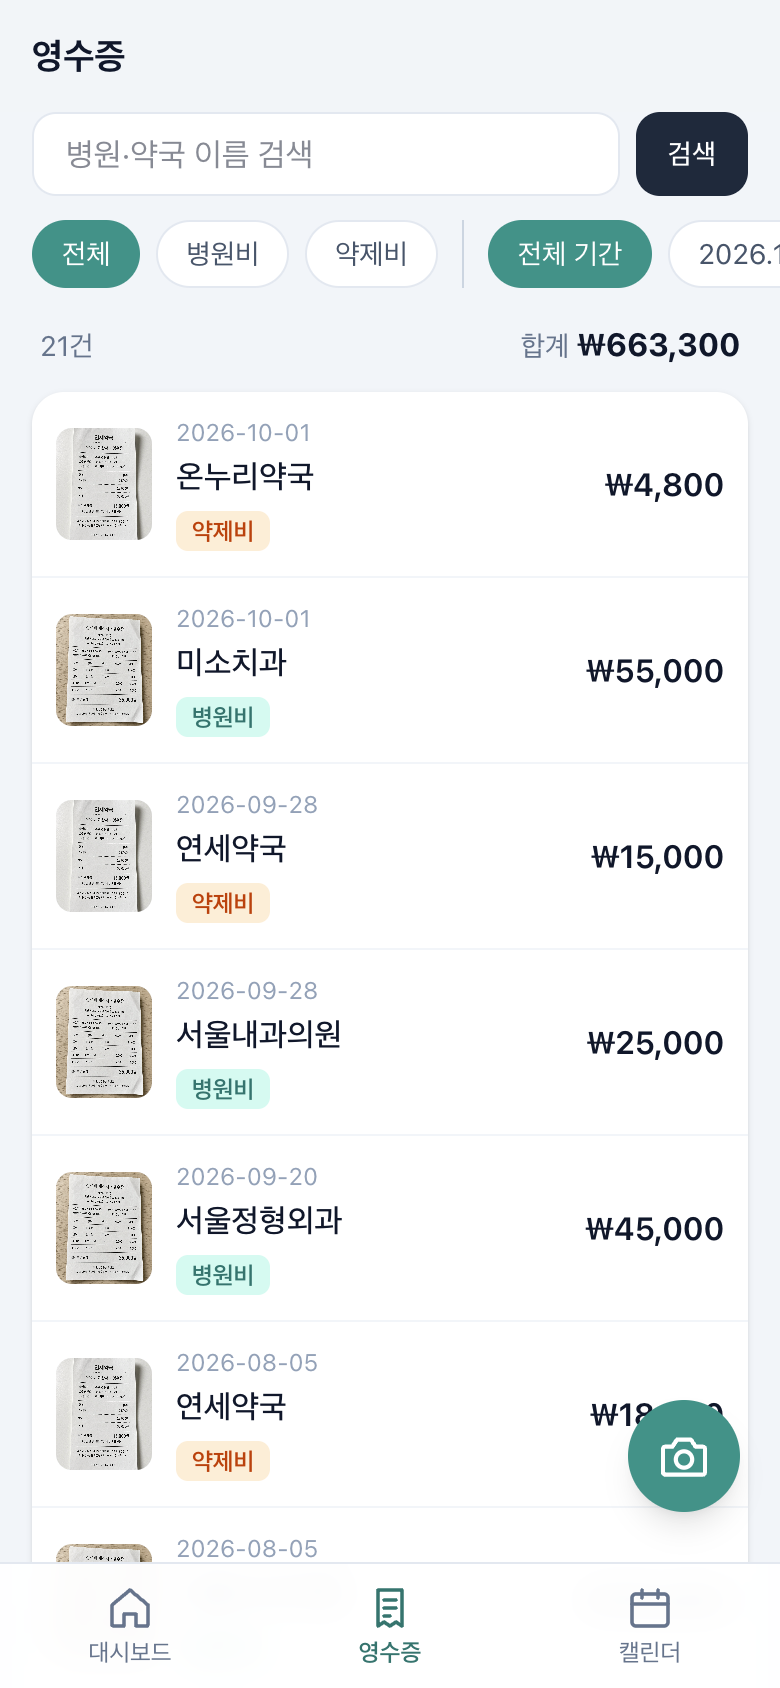
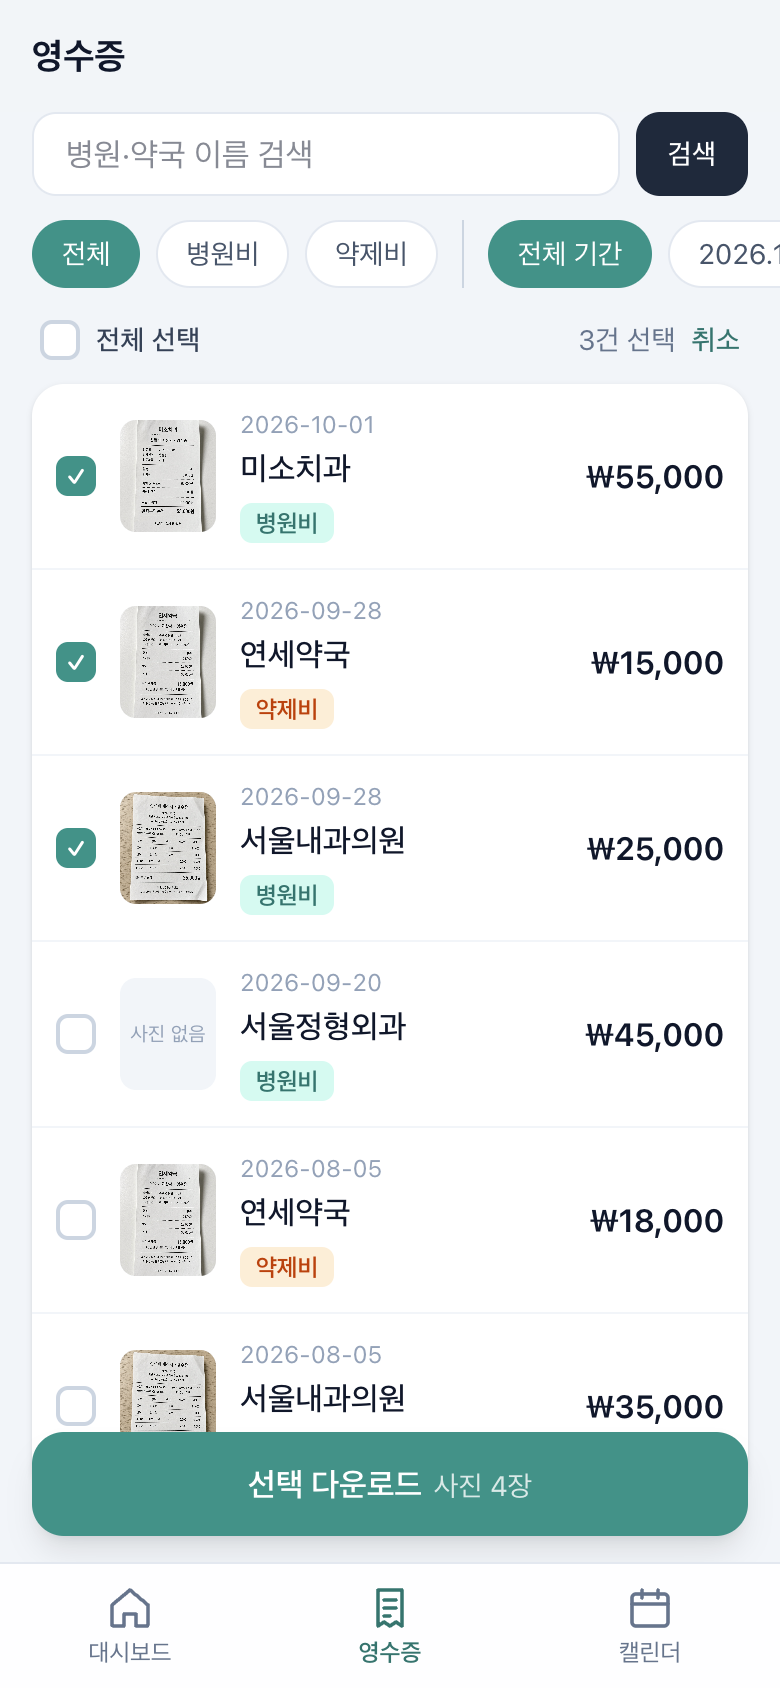
Update README and screenshots for multi-photo receipts and downloads

diff --git a/README.md b/README.md
@@ -31,6 +31,8 @@
 
 - **대시보드**: 이번 달 / 올해 / 전체 기간별 총액, 약제비를 뺀 병원비, 약제비 합계, 최근 12개월 월별 차트, 병원별 지출 순위, 다가오는 예약
 - **영수증**: 카메라로 바로 촬영하거나 앨범에서 선택해 업로드(업로드 전 자동 압축), 날짜·병원·구분·금액·메모 입력과 수정, 구분·월·병원명으로 찾기. 병원·약국 이름은 구분별로 나눠 자주 간 곳부터 추천
+- **사진 여러 장**: 영수증 하나에 영수증·세부내역서·기타 사진을 최대 10장까지 첨부. 영수증 사진을 올리면 세부내역서나 다른 사진도 올릴지 물어봄
+- **사진 다운로드**: 상세 화면에서 사진별로 받거나 한 번에 ZIP으로 받기. 목록에서 선택 모드로 여러 영수증을 골라(전체 선택 가능) ZIP으로 받기. 파일 이름은 `날짜_기관명_종류.jpg`(예: `2026-10-01_미소치과_세부내역서_2.jpg`)
 - **병원 캘린더**: 월간 달력에 예약과 영수증을 함께 표시, 날짜별 예약 추가·수정·삭제, 진료 완료 체크. 같은 날 같은 병원의 영수증을 등록하면 예약이 자동으로 완료되고, 날짜가 지났는데 완료되지 않은 예약은 "놓친 예약"으로 흐리게 표시
 - **로그인**: 1인용 비밀번호, 반복해서 틀리면 일정 시간 로그인 잠금
 
@@ -45,6 +47,8 @@ flowchart LR
   Actions --> Files["영수증 사진 (data/uploads)"]
   App --> ImageRoute["/api/uploads: 로그인한 경우에만 사진 전달"]
   ImageRoute --> Files
+  App --> DownloadRoute["/api/images, /api/receipts/download: 사진·ZIP 다운로드"]
+  DownloadRoute --> Files
 ```
 
 - 화면과 API를 Next.js 하나로 처리합니다. 데이터 변경은 Server Actions로, 페이지는 서버 컴포넌트에서 DB를 직접 읽습니다.
@@ -59,9 +63,11 @@ src/
       calendar/        # 병원 캘린더 + Server Actions
     login/             # 로그인 화면
     api/uploads/       # 로그인 확인 후 영수증 사진 전달
-  components/          # 영수증 폼, 예약 입력 시트, 차트, 하단 탭 등
-  db/                  # Drizzle 스키마, SQLite 연결과 테이블 생성
-  lib/                 # 인증, 로그인 시도 제한, 파일 저장, 조회 함수
+    api/images/        # 사진 한 장 다운로드 (읽기 쉬운 파일 이름)
+    api/receipts/      # 여러 영수증의 사진을 ZIP으로 다운로드
+  components/          # 영수증 폼, 영수증 목록(선택 모드), 예약 입력 시트, 차트, 하단 탭 등
+  db/                  # Drizzle 스키마, SQLite 연결과 테이블 생성·이전
+  lib/                 # 인증, 로그인 시도 제한, 파일 저장, 다운로드 파일 이름·ZIP, 조회 함수
   proxy.ts             # 로그인하지 않은 요청을 /login으로 보냄
 ```
 
@@ -82,6 +88,12 @@ src/
 
 **캘린더에는 영수증을 복사하지 않고 읽어서 보여주기**
 영수증을 캘린더에 띄울 때 예약 데이터로 따로 저장하지 않고, 캘린더 화면이 해당 달의 영수증을 직접 읽어 함께 표시합니다. 같은 내용이 두 곳에 저장되지 않으니 영수증을 고치거나 지워도 캘린더와 어긋날 일이 없습니다. 예약 완료 처리만 영수증 저장 시점에 같은 날짜·같은 병원 이름의 예약을 찾아 바꿉니다.
+
+**사진 여러 장으로 바꾸면서 기존 데이터 옮기기**
+처음에는 영수증 테이블에 사진 경로 칸이 하나뿐이었습니다. 세부내역서까지 함께 올리려고 사진을 별도 테이블(`receipt_images`)로 분리하고 종류(영수증/세부내역서/기타)와 순서를 저장하게 했습니다. 서버가 뜰 때 예전 칸이 남아 있으면 한 트랜잭션 안에서 사진을 새 테이블로 옮기고 그 칸을 지우므로, 배포만 하면 기존 데이터가 그대로 이어집니다.
+
+**ZIP을 메모리에 다 올리지 않고 바로 흘려보내기**
+여러 영수증을 받을 때 사진을 전부 메모리에 모아 압축하면 서버 메모리를 많이 씁니다. 사진은 이미 JPEG로 압축돼 있어서 다시 압축해도 거의 줄지 않으므로, 압축 없이 묶기만 하고 브라우저가 받는 속도에 맞춰 조금씩 만들어 보내도록 했습니다. 한글 파일 이름이 깨지지 않도록 ZIP 안의 이름은 UTF-8로 표시하고, 다운로드 파일 이름은 `filename*=UTF-8''...` 형식으로 보냅니다.
 
 **로그인 확인을 한 곳에만 맡기지 않기**
 `proxy.ts`에서 로그인하지 않은 요청을 걸러내지만, 각 페이지와 Server Action에서도 다시 세션을 확인합니다. Next.js 문서에서도 Proxy만으로 권한을 확인하지 말라고 권장합니다.
